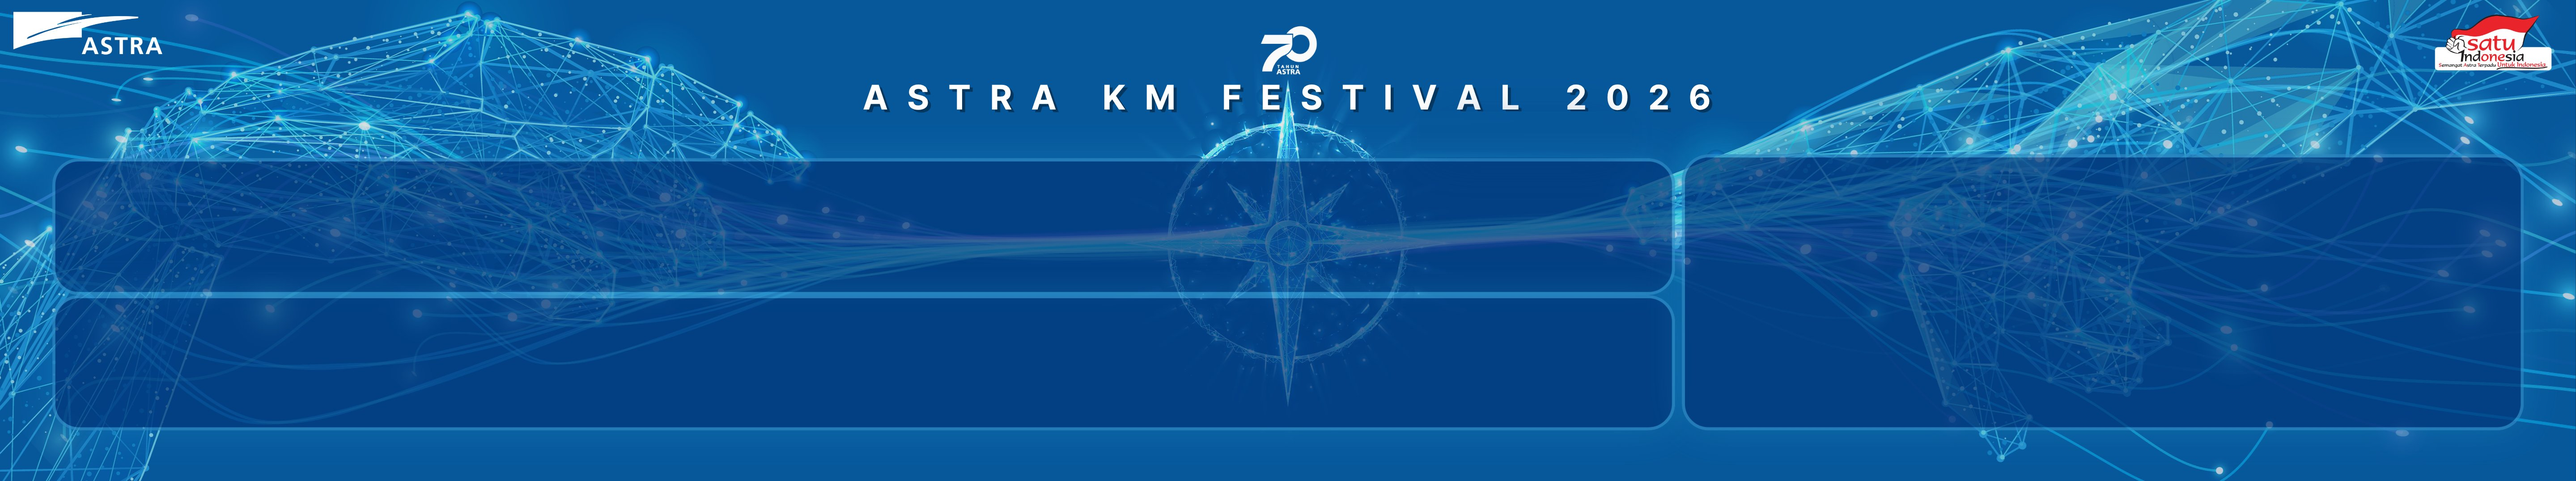
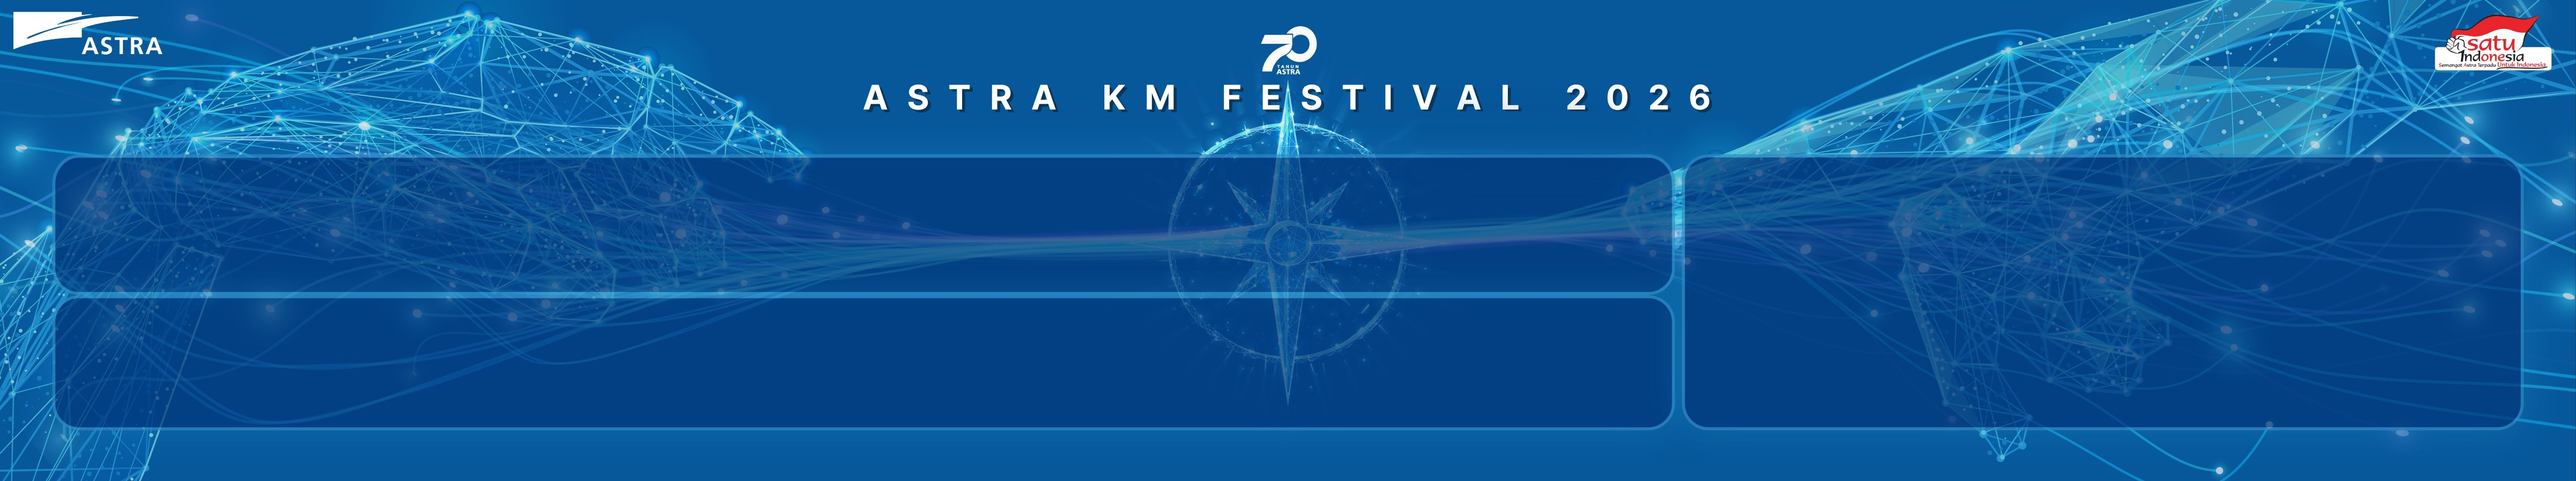
display: hapus label KM FEST, samakan tinggi box kiri, ekor kompas bergerak

Changed region(s): [[0.0, 0.276, 0.6527, 0.368]]

diff --git a/src/components/display/orbit-ring.tsx b/src/components/display/orbit-ring.tsx
@@ -29,6 +29,8 @@ const HEAD_GAP = 16;
 /** Room for text inside a pill, px. Text is measured and cut to fit it. */
 const TEXT_W = 126;
 const PILL_LEN = HEAD_GAP + TEXT_W + 4;
+/** x in compass-head.png where the ring ends and the tail starts (pivot: globals.css .orbit-tail). */
+const TAIL_X = 92;
 const LOOP: [number, number][] = [[30, 151], [2850, 151], [2850, 509], [30, 509], [30, 151]];
 const LOOP_D = "M 30 151 L 2850 151 L 2850 509 L 30 509 L 30 151 L 2850 151 L 2850 509 L 30 509";
 const UP_D = "M 400 509 L 30 509 L 30 151 L 2850 151 L 2850 509 L 2480 509";
@@ -140,7 +142,7 @@ export default function OrbitRing({ pool, loopSeconds }: { pool: RiverSource[]; 
     if (!svg) return;
     const parts = Array.from(svg.querySelectorAll<SVGGElement>("g[data-pill]")).map((g) => ({
       shapes: Array.from(g.querySelectorAll<SVGPathElement>("path")),
-      head: g.querySelector("image")!,
+      head: g.querySelector<SVGGElement>("g.head")!,
       texts: Array.from(g.querySelectorAll<SVGTextElement>("text")),
       paths: Array.from(g.querySelectorAll("textPath")),
     }));
@@ -206,6 +208,9 @@ export default function OrbitRing({ pool, loopSeconds }: { pool: RiverSource[]; 
       <defs>
         <path id="orbit-lane-up" d={UP_D} />
         <path id="orbit-lane-down" d={DOWN_D} />
+        {/* Head art split at the compass ring: the core stays put, the tail sways. */}
+        <clipPath id="orbit-head-core"><rect width={TAIL_X} height={108} /></clipPath>
+        <clipPath id="orbit-head-tail"><rect x={TAIL_X} width={230 - TAIL_X} height={108} /></clipPath>
       </defs>
       {slots.map((slot, i) => {
         const text = fontsReady ? fit(slot.text || placeholder) : "";
@@ -215,7 +220,12 @@ export default function OrbitRing({ pool, loopSeconds }: { pool: RiverSource[]; 
             <path d={LOOP_D} fill="none" stroke="rgba(40,150,255,0.14)" strokeWidth={26} strokeLinecap="round" strokeDasharray={dash} />
             <path d={LOOP_D} fill="none" stroke="rgba(127,212,255,0.35)" strokeWidth={21} strokeLinecap="round" strokeDasharray={dash} />
             <path d={LOOP_D} fill="none" stroke="#03408a" strokeWidth={19} strokeLinecap="round" strokeDasharray={dash} />
-            <image href="/brand/compass-head.png" width={230} height={108} />
+            <g className="head">
+              <image href="/brand/compass-head.png" width={230} height={108} clipPath="url(#orbit-head-core)" />
+              <g className="orbit-tail" style={{ animationDelay: `${-i * 0.37}s` }}>
+                <image href="/brand/compass-head.png" width={230} height={108} clipPath="url(#orbit-head-tail)" />
+              </g>
+            </g>
             <text textAnchor="start" style={{ opacity: 0 }}>
               <textPath href="#orbit-lane-up">{prev}</textPath>
             </text>

diff --git a/src/app/globals.css b/src/app/globals.css
@@ -625,7 +625,8 @@ body {
 }
 
 .opt-a {
-  top: 182px;
+  top: 178px;
+  height: 148px;
   --accent: #7fd4ff;
   --grad: linear-gradient(135deg, #bff0ff, #58c2f5);
 }
@@ -894,14 +895,6 @@ body {
   color: #fff;
 }
 
-.kmfest-label {
-  margin-right: 8px;
-  font-family: var(--font-display);
-  font-weight: 700;
-  letter-spacing: 0.22em;
-  color: #f7c96a;
-}
-
 .kmfest-a {
   color: #7fd4ff;
 }
@@ -965,7 +958,26 @@ body {
 /* Reduced motion                                                      */
 /* ------------------------------------------------------------------ */
 
+/* Compass tail: sways round its root (92,53 in compass-head.png units). */
+.orbit-tail {
+  animation: tail-sway 1.4s ease-in-out infinite;
+}
+
+@keyframes tail-sway {
+  0%,
+  100% {
+    transform: translate(92px, 53px) rotate(-7deg) scaleX(0.95) translate(-92px, -53px);
+  }
+  50% {
+    transform: translate(92px, 53px) rotate(6deg) scaleX(1.06) translate(-92px, -53px);
+  }
+}
+
 @media (prefers-reduced-motion: reduce) {
+  .orbit-tail {
+    animation: none;
+  }
+
   .constellation-field,
   .live-dot,
   .fade-up,

diff --git a/src/lib/event-config.ts b/src/lib/event-config.ts
@@ -63,7 +63,6 @@ export const eventConfig = {
     /** Shown in an orbiting pill until an answer fills it. */
     pillPlaceholder: "Scan the QR and share yours",
     waiting: "Waiting for answers…",
-    kmfestLabel: "KM FEST",
     // Rendered as one paragraph; the A and B sentences take their option colour.
     kmfestLead:
       "There is no right or wrong answer. This is about speed or accuracy, not who's smarter, just a different priority.",

diff --git a/src/components/display/summary-boxes.tsx b/src/components/display/summary-boxes.tsx
@@ -33,7 +33,6 @@ export default function SummaryBoxes({
         </div>
         <div className="kmfest">
           <p>
-            <span className="kmfest-label">{copy.kmfestLabel}</span>
             {copy.kmfestLead} <span className="kmfest-a">{copy.kmfestA}</span>{" "}
             <span className="kmfest-b">{copy.kmfestB}</span> <em>{copy.kmfestClose}</em>
           </p>
